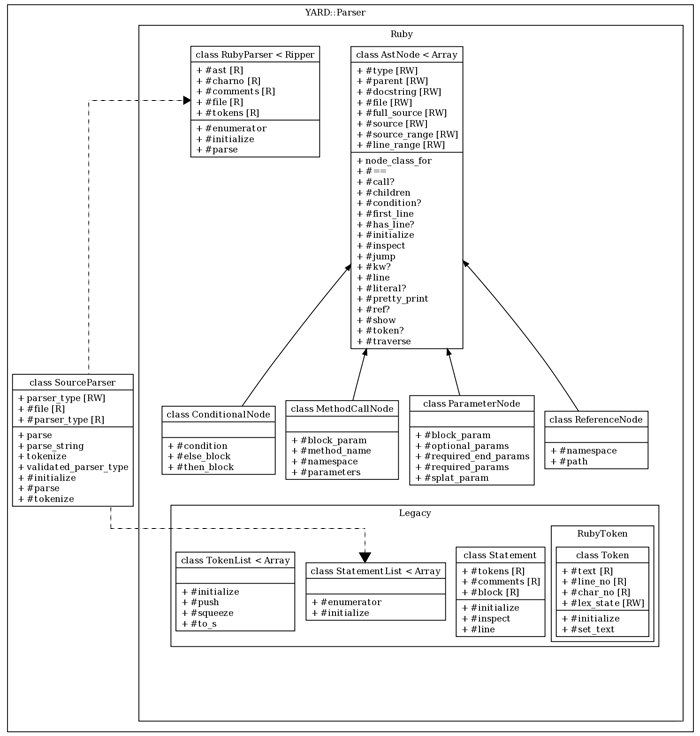
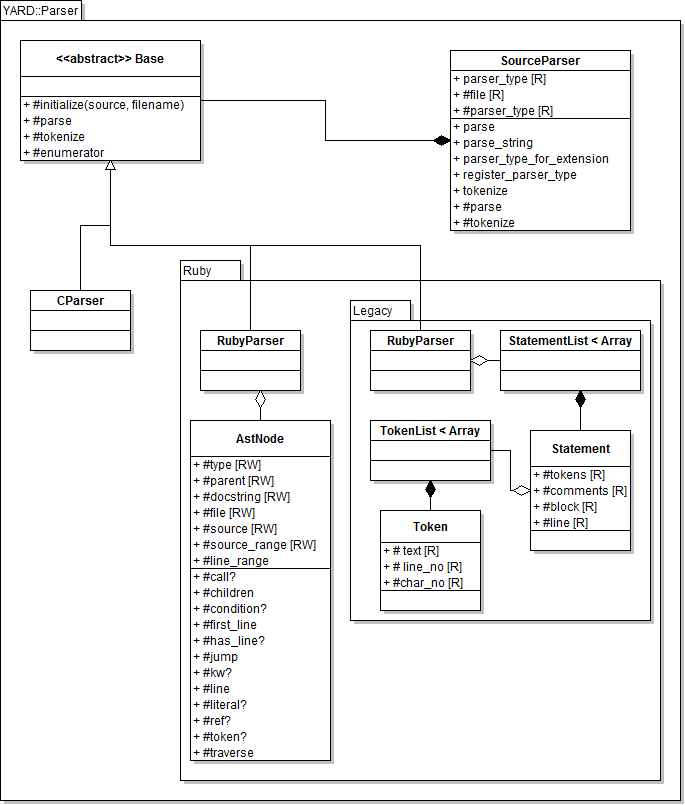
Update Parser Architecture documentation
Closes gh-137

diff --git a/docs/Parser.md b/docs/Parser.md
@@ -17,9 +17,11 @@ SourceParser
 ------------
 
 The main class {YARD::Parser::SourceParser} acts as a factory class, instantiating
-the correct parser class given the source type being parsed. This usually involves
-a file extension check, though this can be overriden. Currently, only a Ruby source
-parser is implemented, though future plans include a C parser for Ruby extensions.
+the correct parser class, an implementation of {YARD::Parser::Base}. The selected parser
+is chosen based on either the file extension or by selecting it explicitly (as an argument
+to parsing methods). YARD supports Ruby and C source files, but custom parsers can
+be implemented and registered for various other languages by subclassing `Parser::Base`
+and registering the parser with {YARD::Parser::SourceParser.register_parser_type}.
 
 This factory class should always be used when parsing source files rather than 
 the individual parser classes since it initiates the pipeline that runs the
@@ -46,11 +48,29 @@ used:
 
     YARD::Parser::SourceParser.parse_string("def method(a, b) end")
     
-Because no filename information is given, this method allows the setting of the
-parser type as an argument:
+You can also provide the parser type explicitly as the second argument:
 
-    # Parses a string of C (not implemented)
+    # Parses a string of C
     YARD::Parser::SourceParser.parse_string("int main() { }", :c)
+    
+Note that these two methods are aliased as {YARD.parse} and {YARD.parse_string} for 
+convenience.
+    
+Implementing and Registering a Custom Parser
+--------------------------------------------
+
+To implement a custom parser, subclass {YARD::Parser::Base}. Documentation on which
+abstract methods should be implemented are documented in that class. After the class
+is implemented, it is registered with the {YARD::Parser::SourceParser} factory class
+to be called when a file of the right extension needs to be parsed, or when a user
+selects that parser type explicitly. To register your new parser class, call the 
+method {YARD::Parser::SourceParser.register_parser_type}:
+
+    SourceParser.register_parser_type(:my_parser, MyParser, 'my_parser_ext')
+    
+The last argument can be a single extension, a list of extensions (Array), a single Regexp, or a
+list of Regexps. Do not include the '.' in the extension.
+
 
 The Two Ruby Parser Types
 -------------------------
